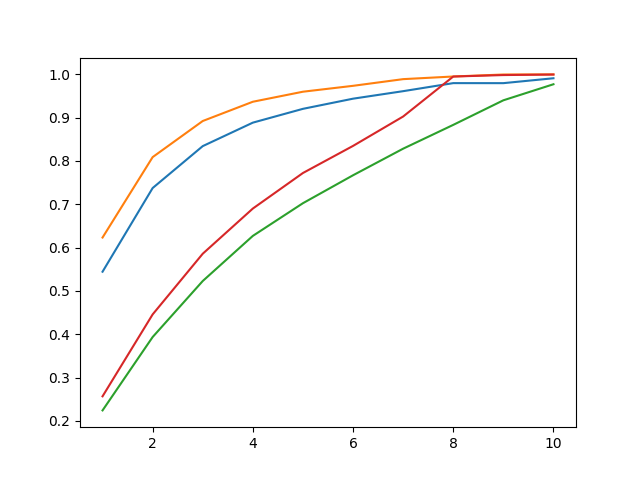
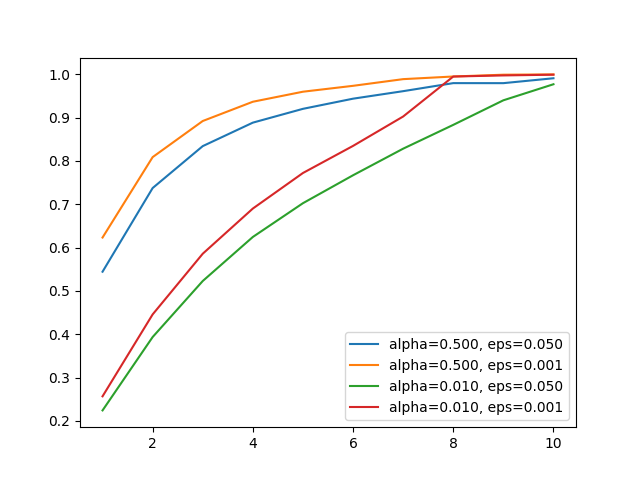
Add legends

Changed region(s): [[0.5312, 0.6875, 0.9062, 0.875], [0.375, 0.4688, 0.4375, 0.5312], [0.3438, 0.5312, 0.375, 0.5625]]

diff --git a/plot_comparison.py b/plot_comparison.py
@@ -8,11 +8,15 @@ if __name__ == '__main__':
     for alpha in [.5, .01]:
         for eps in [.05, .001]:
             plt.plot(list(range(1, 11)),
-                     list(data["{:.3f}_{:02d}_{:.3f}".format(alpha, m, eps)]["lambda_2"] for m in range(1, 11)))
+                     list(data["{:.3f}_{:02d}_{:.3f}".format(alpha, m, eps)]["lambda_2"] for m in range(1, 11)),
+                     label="alpha={:.3f}, eps={:.3f}".format(alpha, eps))
+    plt.legend()
     plt.savefig("output/lambda_2.png")
     plt.clf()
     for alpha in [.5, .01]:
         for eps in [.05, .001]:
             plt.semilogy(list(range(1, 11)),
-                     list(data["{:.3f}_{:02d}_{:.3f}".format(alpha, m, eps)]["stability"] for m in range(1, 11)))
+                         list(data["{:.3f}_{:02d}_{:.3f}".format(alpha, m, eps)]["stability"] for m in range(1, 11)),
+                         label="alpha={:.3f}, eps={:.3f}".format(alpha, eps))
+    plt.legend()
     plt.savefig("output/stability.png")

diff --git a/stability.py b/stability.py
@@ -9,7 +9,7 @@ def main(log, alpha, m, eps):
     data = np.load(np_file_name)
     lambda_2 = abs(np.sort(np.linalg.eigvals(data))[-2])
     diags = np.diag(data)
-    stability = np.sum(diags[:4]) / np.sum(diags[4:])
+    stability = np.mean(diags[:4]) / np.mean(diags[4:])
     log["{:.3f}_{:02d}_{:.3f}".format(alpha, m, eps)] = dict(lambda_2=lambda_2, stability=stability)
 
 
